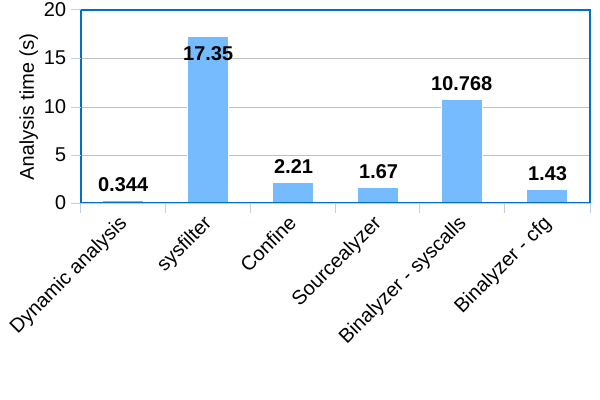
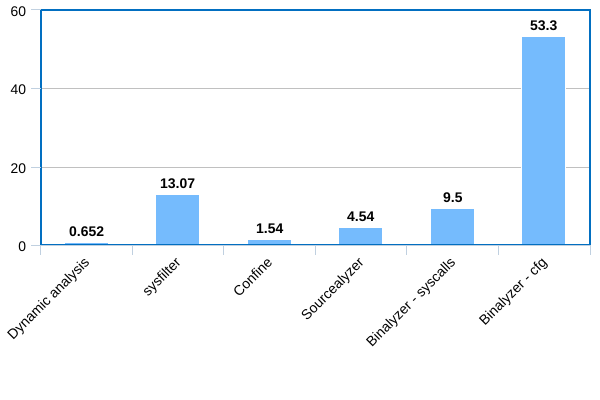
docs: Update final paper
Update timings graph in the discussions section.
Update minor phrasing problems through the whole document.

Changed region(s): [[0.0, 0.0, 0.99, 0.87], [0.75, 0.66, 0.87, 0.81], [0.87, 0.66, 0.93, 0.69]]

diff --git a/docs/final_paper/sections/your_contribution.tex b/docs/final_paper/sections/your_contribution.tex
@@ -1,10 +1,10 @@
 \section{Experiment setup}
 \label{sec:setup}
-During the experiment 5 analysis tools were configured and 3 separate programs were inspect.
+During the experiment 5 analysis tools were configured and 3 separate programs were inspected.
 The environment for the experiment was a Docker container based on the \textit{ubuntu:18.04} image.
 The kernel is that of the host machine, which can be identified by: \textit{6.9.1-arch1-1}.
 The test computer had 16GB of RAM and an \textit{AMD Ryzen 7 4800H} 8 core CPU.
-The analysis timing information was collected by the \textit{time} command, except for one case, which is specifically stated below. More information about what steps of the process got timed for each of the tools can be found below.
+The analysis timing information was collected by the \textit{time} command, except for one case, which is specifically stated below. More information about what steps of the process got timed for each of the tools can also be found below.
 
 The 3 programs under analysis are listed below:
 \begin{itemize}
@@ -24,16 +24,16 @@ Since dynamic analysis requires the program under test to be exercised in order 
 The dynamic tracer also supports the multi phase execution model in order to be compared with temporal specialization \cite{ref_mp_1}. The tool allows specifying the exact instruction at which a phase transition should be considered, by passing the offset of the instruction from the start of the binary as a command line argument. The tracer supports up to 10 phase transition points, however this is easy to extend if needed.
 
 In the case of \textit{ls} the call instruction to \textit{clear\_files} found within the \textit{main} function was chosen as the phase transition point, since most initialization is done before this point, and the work of listing files and folders is done afterwards.
-For sqlite, the first instruction of the \textit{shell\_exec} function was chosen, as this is the part where it start dealing with the query after loading the database and handling other command line options.
-Finally the first instruction of the \textit{aeMain} function is the transition point chosen for \textit{redis}, which is the same transition point chosen by temporal specialization.
+For sqlite, the first instruction of the \textit{shell\_exec} function was chosen, as this is the part where it starts dealing with the query after loading the database and handling other command line options.
+Finally the first instruction of the \textit{aeMain} function is the transition point chosen for redis, which is the same transition point chosen by temporal specialization.
 
 The timing information includes running the simple framework, executing all the defined analysis cases, gathering and printing all results.
 
-The source code for the tracer, as well as for the test framework with the test cases used is available in the project's source code repository.
+The source code for the tracer, as well as the test framework with the test cases used is available in the project's source code repository.
 
 \subsection {sysfilter}
 The sysfilter \cite{ref_sp_3} analysis program, which relies mainly on static analysis, was setup inside the docker container using the instructions given by the authors.
-After the project is built, the programs under analysis were ran through the compiled binary, and the results were gathered.
+After the project was built, the programs under analysis were ran through the compiled analysis tool, and the results were gathered.
 
 The timing information includes only the runtime of the analysis program, which also prints the results.
 
@@ -49,7 +49,7 @@ The input JSON file that defines which containers to test was a simple file cont
 The timing information collected includes the time to analyze extracted binaries and dependencies and to generate a list of used system calls. This specifically excludes the time to run the container and extract the binaries and dependencies from it, in order to make a better comparison to the other tools. The time was measured using the \textit{time.time\_ns()} python function.
 
 \subsection {Chestnut}
-The Chestnut \cite{ref_sp_1} project, which relies mainly on static analysis, has 2 main components performing analysis. \textit{Sourcealyzer} extracts the used systems calls through a compiler pass by patching the LLVM compiler, while the \textit{Binalyzer} scripts work on compiled binaries. The project authors provide \textit{Binalyzer} for cases when using \textit{Sourcealyzer} is not feasible, for example because of the LLVM compiler usage or lack of available source code \cite{ref_sp_1}.
+The Chestnut \cite{ref_sp_1} project, which relies mainly on static analysis, has 2 main components performing analysis. \textit{Sourcealyzer} extracts the used system calls through a compiler pass by patching the LLVM compiler, while the \textit{Binalyzer} scripts operate on already compiled binaries. The project authors provide \textit{Binalyzer} for cases when using \textit{Sourcealyzer} is not feasible, for example because of incompatibility with the LLVM compiler or lack of available source code \cite{ref_sp_1}.
 
 Optionally a second phase of analysis called the \textit{Finalyzer} can be performed either after the aforementioned 2 analysis tools or as a standalone analysis process.
 It is based on dynamic tracing, and its goal is to unblock system calls which were not detected by the static analysis tools, such as in the case when the program under analysis dynamically loads another process as a child.
@@ -61,15 +61,15 @@ Furthermore, to which extent the applications work after blocking the detected s
 The project was built and ran inside the docker container. The \textit{Binalyzer} part got patched by Petr Khartskhaev, to solve an issue where the \textit{syscalls.py} script did not work.
 The experiment evaluates both \textit{syscalls.py} and \textit{cfg.py} on the binaries included with the Ubuntu distribution, as well as the statically built binaries, which are generated by the patched clang compiler explained below.
 
-Furthermore the author has made some modifications to the \textit{Sourcealyzer} part of the project. First, the LLVM download and patch script was modified to apply the patch without user interaction and to also build clang and ldd.
+Furthermore the author has made some modifications to the \textit{Sourcealyzer} part of the project. First, the LLVM download and patch script was modified to apply the patch without user interaction and to also build clang and lld.
 Next, the number of concurrent build jobs were also reduced to 10, since the build process ran into out of memory issues on the computer performing the build.
 
 Afterwards \textit{musl} was setup (commit hash 007997299248b8682dcbb73595c53dfe86071c83), since all dependencies of programs under test need to be rebuilt using a new compiler flag, and building \textit{glibc} using the patched clang compiler did not work due to some missing GNU extensions.
-Then the \textit{musl-clang} wrapper is modified to use the patched linker, instead of the system default, this is required for the intended program analysis to be done.
-Furthermore a copy of the wrapper is made that support static building, since the default one has command line options which imply dynamic linking.
+Then the \textit{musl-clang} wrapper was modified to use the patched linker, instead of the system default, this is required for the intended program analysis to be done.
+Furthermore a copy of the wrapper was made that supports static building, since the default one has command line options which imply dynamic linking.
 
-Next libseccomp is rebuilt (commit hash 9da5d174e3ef219baab020a79c789f2075ace45c) against \textit{musl}, because a chestnut object, that needs to be built into the final analyzed program, depends on it, however the final analyzed program is not built against \textit{glibc} like the installed libseccomp-dev package is.
-In the following step the aforementioned chestnut object is rebuilt against the new libseccomp, and that is the final step to setup the tool.
+Next libseccomp was rebuilt (commit hash 9da5d174e3ef219baab020a79c789f2075ace45c) against \textit{musl}, because a chestnut object, that needs to be built into the final analyzed program, depends on it, however the final analyzed program is not built against \textit{glibc} like the installed libseccomp-dev package is.
+In the following step the aforementioned chestnut object was rebuilt against the new libseccomp, and that is the final step to setup the tool.
 
 From here the programs under analysis need to be rebuilt, with the \textit{-static -lseccomp -fautosandbox} compiler flags, for the tool to perform analysis and include the used system calls in the resulting binaries.
 

diff --git a/docs/final_paper/sections/experimental_setup_and_results.tex b/docs/final_paper/sections/experimental_setup_and_results.tex
@@ -1,7 +1,7 @@
 \section{Results}
 \label{sec:results}
 This section details the results of the experiment, which was set up as described by the previous section.
-The purpose of this section is to state how each tool performed and discussion of the results is deferred to the next section.
+The purpose of this section is to state how each tool performed and reasoning about the results is deferred to the discussion section.
 The reported metrics are the analysis time and the number of blocked system calls.
 
 \subsection {Dynamic analysis solution}
@@ -36,7 +36,7 @@ For sqlite and redis the performance is similar, in the 300-400 ms range, blocki
 \subsubsection {Multi phase model}
 \begin{table}[!h]
 \begin{center}
-\caption{Blocked system call count and analysis runtime for the dynamic analysis solution implemented for this research, using the multi phase execution model. The second column depcits the number of blocked systems calls in the first phase, followed by the second phase.}
+\caption{Blocked system call count and analysis runtime for the dynamic analysis solution implemented for this research, using the multi phase execution model. The second column depcits the number of blocked system calls in the first phase, followed by the second phase.}
 \label{tbl:dyn_mp_results}
 \begin{tabular}{||c c c||}
  \hline
@@ -51,10 +51,10 @@ Program & Blocked syscalls per phase & Runtime \\
 \end{tabular}
 \end{center}
 \end{table}
-It is important to note, that all system calls made by phase 1 are also included in the allowed system calls of phase 0. This means that although phase 0 only uses 17 unique system calls, it also consideres system calls that are used exclusively by phase 1, hence the lower number of blocked system calls.
-This is done because of how \textit{seccomp} operates, which is further detailed in the discussion.
+It is important to note, that all system calls made by phase 1 are also included in the allowed system calls of phase 0. This means that although phase 0 only uses 17 unique system calls for \textit{ls}, it also consideres system calls that are used exclusively by phase 1, hence the lower number of blocked system calls.
+This is done because of how \textit{seccomp} operates, only allowing a stricter policy, after the first one is installed.
 
-In the case of \textit{ls}, considering a second execution phase allows for blocking 9 more system calls after phse 0 is done, as depicted in \ref{tbl:dyn_mp_results}, and finishes within 108ms, similar to the speed of the single phase model.
+In the case of \textit{ls}, considering a second execution phase allows for blocking 9 more system calls after phse 0 is done, as depicted in Table \ref{tbl:dyn_mp_results}, and finishes within 108ms, similar to the speed of the single phase model.
 
 For sqlite, the increase in blocked system calls is even higher, with 16 additional calls blocked in the second phase and analysis finishing within 361ms.
 In the case of redis 11 additional system calls are blocked and anlysis is done in 725ms.
@@ -125,7 +125,7 @@ Since it has multiple components and the usage of statically linked binaries com
 \end{tabular}
 \end{center}
 \end{table}
-Sourcealyzer produces 318 blocked system calls in around 4.5 seconds, when compiling \textit{ls}, as Table \ref{tbl:chestnut_src_results}.
+Sourcealyzer produces 318 blocked system calls in around 4.5 seconds, when compiling \textit{ls}, as Table \ref{tbl:chestnut_src_results} shows.
 For sqlite the analysis time drops to around 1.7 seconds, and 296 system calls are blocked as a result.
 Redis took around 4.5 seconds to analyze, after which 286 system calls got blocked.
 
@@ -158,7 +158,7 @@ For the dynamically linked \textit{ls} the analysis took 6.7 seconds and blocked
 
 A similar trend between the static and dynamic linkage can be observed with the other 2 programs, with the dynamic sqlite binary taking 10 seconds to analyze and blocking 99 system calls and the static version taking only 3 seconds, and blocking 298 system calls.
 
-Redis took 9 seconds to analyze using the dynamic version, but only 3 seconds when using the static version. 99 and 292 systems calls got blocked respectively.
+Redis took 9 seconds to analyze using the dynamic version, but only 3 seconds when using the static version. 99 and 292 system calls got blocked respectively.
 
 \subsubsection {Binalyzer - cfg}
 \begin{table}[!h]
@@ -185,7 +185,7 @@ Redis took 9 seconds to analyze using the dynamic version, but only 3 seconds wh
 \end{center}
 \end{table}
 In this subsection binaries were analyzed using the \textit{cfg.py} script.
-For all 3 programs the analysis of the dynamically linked libraries did not yield any blocked system calls, with \textit{ls} taking 5 seconds to analyze and redis taking 53 seconds. Additionally for sqlite the analysis fails 1.4 seconds, due to \textit{angr} not being able to construct the CFG.
+For all 3 programs the analysis of the dynamically linked libraries did not yield any blocked system calls, with \textit{ls} taking 5 seconds to analyze and redis taking 53 seconds. Additionally for sqlite the analysis failed in 1.4 seconds, due to \textit{angr} not being able to construct the CFG.
 
 For the statically linked binaries the performance is better.
 \textit{ls} took 11.8 seconds to analyze and 318 system calls got blocked, as shown in Table \ref{tbl:chestnut_bin_cfg_results}.
@@ -195,7 +195,7 @@ In the case of redis the analysis finished in 1 minute and blocked 292 system ca
 \subsection {Temporal specialization}
 \begin{table}[!h]
 \begin{center}
-\caption{Blocked system call count and analysis runtime for temporal specialization. The second column depcits the number of blocked systems calls in the first phase, followed by the second phase. The thid column contains the runtime for the bitcode generation, followed by the runtime for the full analysis}.
+\caption{Blocked system call count and analysis runtime for temporal specialization. The second column depcits the number of blocked system calls in the first phase, followed by the second phase. The thid column contains the runtime for the bitcode generation, followed by the runtime for the full analysis}.
 \label{tbl:tmp_spec_results}
 \begin{tabular}{||c c c||}
  \hline
@@ -212,4 +212,4 @@ As explained in the experiment setup, \textit{ls} was not analyzed using this to
 
 In the case of sqlite, adding a second phase allows to block 6 additional system calls, as show in Table \ref{tbl:tmp_spec_results}. Bitcode generation finished under a reasonable 1.91 seconds, however the analysis part took over 2 minutes.
 
-For redis, 8 additional system calls can be blocked in the second phase. Bitcode generation took around 6 seconds, while the analysis can last over 2 minutes, like in the case of sqlite.
+For redis, 8 additional system calls can be blocked in the second phase. Bitcode generation took around 6 seconds, while the analysis lasted over 2 minutes, like in the case of sqlite.

diff --git a/docs/final_paper/sections/methodology_or_problem_description.tex b/docs/final_paper/sections/methodology_or_problem_description.tex
@@ -10,8 +10,8 @@ Automating the system call policy generation process has been the focus of recen
 
 Static analysis solutions \cite{ref_sp_1,ref_sp_3,ref_sp_2} inspect the source code or the binary of the given program without executing it, and identify the list of used system calls that way. This approach tends to slightly overestimate the set of required system calls \cite{ref_dyn_1}, while still leading to a considerable attack surface reduction. The main issue of static analysis is that it does not scale well as program size increases, resulting in longer analysis time and more complicated setup as the amount of dependencies grows.
 
-Dynamic analysis solutions \cite{ref_dyn_1} trace the given program while it is being executed and record the invoked system calls that way. This approach tends to underestimate the set of required system calls, unless the given program is extensively exercised during analysis to explore as many program states as possible that may invoke systems calls that have not been recorded previously. Thus the main issue of dynamic analysis is the reliance on a test suite which explores adequately many program states, however in return dynamic analysis is simpler to scale to larger applications.
+Dynamic analysis solutions \cite{ref_dyn_1} trace the given program while it is being executed and record the invoked system calls that way. This approach tends to underestimate the set of required system calls, unless the given program is extensively exercised during analysis to explore as many program states as possible that may invoke system calls that have not been recorded previously. Thus the main issue of dynamic analysis is the reliance on a test suite which explores adequately many program states, however in return dynamic analysis is simpler to scale to larger applications.
 
-Temporal specialization \cite{ref_mp_1} is another novel technique that does not strictly fall into any of the 2 main categories. The core idea is to consider that applications tend to have multiple phases of execution that require their own set of system calls and achieve a more fine-grained policy. The model works well especially in the case of server applications, which tend to have a first phase that sets up the server and then a serving phase, responsible for handling clients.
+Temporal specialization \cite{ref_mp_1} uses another novel technique that does not strictly fall into any of the 2 main categories. The core idea is to consider that applications tend to have multiple phases of execution that require their own set of system calls and achieve a more fine-grained policy. The model works well especially in the case of server applications, which tend to have a first phase that sets up the server and then a serving phase, responsible for handling clients.
 
 With many solutions tackling the challenge in various different ways the need for a study to compare them is motivated, and this is the gap that the research is aiming to address. In addition to comparing various proposed implementations and analyzing the underlying techniques, this study offers the chance to see how these tools fare 1-2 years after their release. Furthermore, a small program analysis tool based on dynamic analysis is provided for the sake of comparison with the seemingly more popular static analysis based techniques.

diff --git a/docs/final_paper/sections/discussion.tex b/docs/final_paper/sections/discussion.tex
@@ -1,6 +1,6 @@
 \section{Discussion}
 \label{sec:discussion}
-This section explores the results stated in the previous section and attempts to find explanations or new connections between topics.
+This section explores the results stated in the Results section and attempts to find explanations or new connections between topics.
 The following subsections first investigate the set of blocked system calls among the different tools, then look at the runtime of the analysis.
 Next the setup and usability of the tools is investigated, and lastly the results of the multi phase execution model are discussed.
 
@@ -26,12 +26,12 @@ Perhaps another positive note about dynamic analysis is that it is possible for 
 \begin{figure}
     \centering
     \includegraphics[width=\columnwidth]{./chart_timings.png}
-    \caption{Analysis times for all investigated analysis tools for sqlite.}
+    \caption{Analysis times for all investigated analysis tools for redis.}
     \label{fig:timings}
 \end{figure}
 From the aspect of analysis time it can be seen that the dynamic analysis solution takes the least amount of time, as shown in Figure \ref{fig:timings}, therefore it leaves room for more analysis cases to be added, until the analysis time approaches that of the static analysis tools.
 
-The second fastest solution is confine with 1-2 seconds spent per program on average. This is because confine contains a pre-computed call graph for certain libc versions, and thus skips the steps where most analysis tools spend their time, analyzing what systems calls the libc functions make that are used by the given program. Therefore a promising technique to speed up analysis could be precomputing results for popular libraries and dependencies.
+The third fastest solution is confine with 1-2 seconds spent per program on average. This is because confine contains a pre-computed call graph for certain libc versions, and thus skips the steps where most analysis tools spend their time, analyzing what system calls the libc functions make that are used by the given program. Therefore a promising technique to speed up analysis could be precomputing results for popular libraries and dependencies.
 
 The next fastest solution is perhaps surprisingly the Sourcealyzer part of Chestnut, with 1-4 seconds of analysis time per program. Although this may be unexpected a first, a significant speedup is achieved by utilizing multiple cores. Since the Sourcalyzer is implemented as an LLVM pass it has the same parallelization options as other compiler tasks, and thus allowing 16 concurrent jobs while testing greatly favors solutions which take advantage of multiple cores. In comparison, all of the other solutions relied on single core execution, therefore another opportunity to increase analysis speeds is to utilize multiple cores.
 

diff --git a/docs/final_paper/sections/conclusion_and_future_work.tex b/docs/final_paper/sections/conclusion_and_future_work.tex
@@ -9,16 +9,16 @@ To summarize, this research explored the area of system call sandboxing, compari
 
 A dynamic analysis based implementation was proposed in order to evaluate how well a purely dynamic analysis based solution would perform, since this approach is less popular in the field.
 The results show that such an approach is faster compared to other solutions, and blocks more system calls, although at the cost of accuracy.
-A key problem of the approach is the underestimation of the set of required system calls, which relies on there being a sufficient amount of test cases that explore many possible program state.
+A key problem of the approach is the underestimation of the set of required system calls, which relies on there being a sufficient amount of test cases that explore many possible program states.
 A strong positive of this approach is the ability to create custom system call filters based on usage pattern, thus achieving more security.
 
 Static analysis based tools, namely sysfilter, Confine and chestnut, were set up and tested.
 The results show that each implementation blocks a different number of system calls and does so with varying analysis time.
 The research discusses the potentials to speed up analysis time and looks at the advantages and drawbacks of these tools, also taking into account the ease of setup and usability.
-A key problem of these tools is the difficulty to setup and maintain, such as switching distribution or upgrading a compiler or library.
+A key problem of these tools is the difficulty to setup and maintain them, when switching distributions or upgrading a compiler or library.
 A strong positive of these tools is that they are able to generate a relatively precise set of system calls to filter, independent of the given application.
 
-Additionally the multi phase model of execution was investigated in both the static and dynamic analysis context.
+Additionally the multi phase model of execution was investigated in both the static (temporal specialization \cite{ref_mp_1}) and dynamic analysis context (the dynamic tracer with multi phase support).
 The research shows that static and dynamic analysis have the same drawbacks and advantages as in the case for a single phase execution model.
 Furthermore, based on the results the multi phase execution model is more effective compared to the single phase counterpart, and can be deployed even on applications, which do not follow the general life cycle of server programs.
 A key problem of this approach is the need to identify the optimal transition points.

diff --git a/docs/final_paper/sections/abstract.tex b/docs/final_paper/sections/abstract.tex
@@ -1,7 +1,8 @@
 \begin{abstract}
     System call sandboxing is the idea to restrict the set of system calls an application is able to invoke.
-    This reduces the attack surface available to an attack exploiting the binary, and adheres to the principle of least privilege, giving entities the minimum required permissions needed to perform their function.
-    The key goal is to automatically identify which system calls to block, since it is a complex task requiring great insight into the program and its dependencies.
+    This reduces the attack surface available to an attacker exploiting the binary, and adheres to the principle of least privilege, giving entities the minimum required permissions needed to perform their function.
+
+    The key goal is to automatically identify which system calls to block, since it is a complex, manual task requiring great insight into the program and its dependencies.
 
     This paper investigates and compares various static analysis based solutions in this field, such as sysfilter \cite{ref_sp_3}, Confine \cite{ref_sp_2} and Chestnut \cite{ref_sp_1}, by measuring their accuracy and analysis time. Furthermore a simple dynamic analysis based solution is created for the sake of comparison with the previously mentioned tools. The tools are evaluated on a small set of commonly used Linux applications, such as \textit{ls}, \textit{sqlite} and \textit{Redis}, and the results are reported.
 
